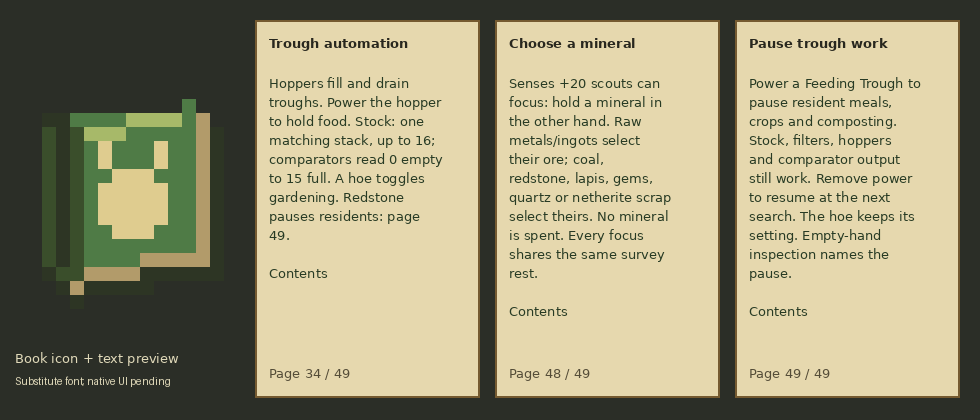
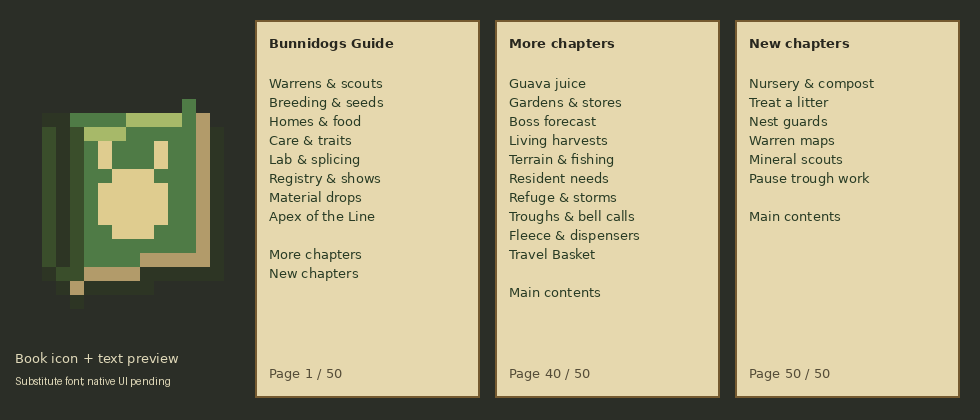
Add working-line milestones and a third Field Guide contents page

diff --git a/art/gen_guide.py b/art/gen_guide.py
@@ -53,11 +53,12 @@ PAGES = {
     48: ('Choose a mineral', 'Senses +20 scouts can focus: hold a mineral in the other hand. Raw metals/ingots select their ore; coal, redstone, lapis, gems, quartz or netherite scrap select theirs. No mineral is spent. Every focus shares the same survey rest.'),
     49: ('Pause trough work', 'Power a Feeding Trough to pause resident meals, crops and composting. Stock, filters, hoppers and comparator output still work. Remove power to resume at the next search. The hoe keeps its setting. Empty-hand inspection names the pause.'),
 }
-PAGE_COUNT = 49
-MAIN_INDEX = {2:'Warrens & scouts',4:'Breeding & seeds',41:'Nursery & compost',8:'Homes & food',11:'Care & traits',45:'Nest guards',15:'Lab & splicing',
+PAGE_COUNT = 50
+MAIN_INDEX = {2:'Warrens & scouts',4:'Breeding & seeds',8:'Homes & food',11:'Care & traits',15:'Lab & splicing',
               17:'Registry & shows',19:'Material drops',20:'Apex of the Line'}
 MORE_INDEX = {24:'Guava juice',25:'Gardens & stores',27:'Boss forecast',28:'Living harvests',29:'Terrain & fishing',
               31:'Resident needs',32:'Refuge & storms',34:'Troughs & bell calls',36:'Fleece & dispensers',39:'Travel Basket'}
+NEW_INDEX = {41:'Nursery & compost',44:'Treat a litter',45:'Nest guards',46:'Warren maps',47:'Mineral scouts',49:'Pause trough work'}
 
 
 def pantry_guide_pool():
@@ -86,8 +87,9 @@ def main():
     for path in (RES/'assets/bunnidogs/lang').glob('*.json'):
         value = json.loads(path.read_text()); value.update({'item.bunnidogs.field_guide':'Bunnidogs Field Guide',
           'guide.bunnidogs.title':'Bunnidogs Guide','guide.bunnidogs.contents':'Contents',
-          'guide.bunnidogs.more_contents':'More chapters','guide.bunnidogs.main_contents':'Main contents'})
-        for page,label in (MAIN_INDEX | MORE_INDEX).items(): value[f'guide.bunnidogs.index.{page}'] = label
+          'guide.bunnidogs.more_contents':'More chapters','guide.bunnidogs.main_contents':'Main contents',
+          'guide.bunnidogs.new_contents':'New chapters'})
+        for page,label in (MAIN_INDEX | MORE_INDEX | NEW_INDEX).items(): value[f'guide.bunnidogs.index.{page}'] = label
         for page,(title,body) in PAGES.items():
             value[f'guide.bunnidogs.page.{page}.title'] = title
             value[f'guide.bunnidogs.page.{page}.body'] = body
@@ -104,12 +106,13 @@ def main():
         bold = ImageFont.truetype('DejaVuSans-Bold.ttf',13)
     except OSError:
         font = bold = ImageFont.load_default()
-    for x,page in [(255,34),(495,48),(735,49)]:
+    for x,page in [(255,1),(495,40),(735,50)]:
         d.rectangle((x,20,x+224,397),fill=(230,216,174),outline=(117,90,48),width=2)
-        title = 'Bunnidogs Guide' if page == 1 else 'More chapters' if page == 40 else PAGES[page][0]
+        title = 'Bunnidogs Guide' if page == 1 else 'More chapters' if page == 40 else 'New chapters' if page == 50 else PAGES[page][0]
         d.text((x+14,35),title,font=bold,fill=(40,39,30))
-        if page == 1: body = '\n'.join(MAIN_INDEX.values()) + '\n\nMore chapters'
+        if page == 1: body = '\n'.join(MAIN_INDEX.values()) + '\n\nMore chapters\nNew chapters'
         elif page == 40: body = '\n'.join(MORE_INDEX.values()) + '\n\nMain contents'
+        elif page == 50: body = '\n'.join(NEW_INDEX.values()) + '\n\nMain contents'
         else: body = '\n'.join(textwrap.wrap(PAGES[page][1],25)) + '\n\nContents'
         d.multiline_text((x+14,75),body,font=font,spacing=6,fill=(40,59,36))
         d.text((x+14,365),f'Page {page} / {PAGE_COUNT}',font=font,fill=(85,77,56))

diff --git a/tools/gametest/java/com/bunnidogs/mod/entity/ScoutingGameTest.java b/tools/gametest/java/com/bunnidogs/mod/entity/ScoutingGameTest.java
@@ -13,6 +13,7 @@ import net.minecraft.core.GlobalPos;
 import net.minecraft.core.component.DataComponents;
 import net.minecraft.gametest.framework.GameTestHelper;
 import net.minecraft.network.chat.Component;
+import net.minecraft.resources.Identifier;
 import net.minecraft.util.ProblemReporter;
 import net.minecraft.world.InteractionHand;
 import net.minecraft.world.entity.EntitySpawnReason;
@@ -63,10 +64,17 @@ public final class ScoutingGameTest {
         dog.setTarget(other); dog.mobInteract(player,InteractionHand.OFF_HAND);
         h.assertTrue(dog.scoutingStatus() == Scouting.Status.COMBAT && dog.scoutingWait() == 0,"Combat must interrupt surveying");
         dog.setTarget(null); other.discard();
+        var listener = level.getServer().getAdvancements().get(Identifier.fromNamespaceAndPath("bunnidogs","quiet_listener"));
+        var discerning = level.getServer().getAdvancements().get(Identifier.fromNamespaceAndPath("bunnidogs","discerning_ear"));
+        h.assertTrue(listener != null && discerning != null && !player.getAdvancements().getOrStartProgress(listener).isDone(),
+                "Refused surveys must not grant an exploration milestone");
         // A player may keep a scout safely on a lead; measuring does not request a journey.
         dog.setLeashedTo(player,false);
         var originalStats = dog.stats(); float health = dog.getHealth();
         dog.mobInteract(player,InteractionHand.OFF_HAND);
+        h.assertTrue(player.getAdvancements().getOrStartProgress(listener).isDone()
+                && !player.getAdvancements().getOrStartProgress(discerning).isDone(),
+                "A successful general survey grants its native milestone without granting focused work");
         var expected = new LodestoneTracker(Optional.of(GlobalPos.of(level.dimension(),near)),false);
         int slot = -1;
         for (int i = 0; i < player.getInventory().getContainerSize(); i++)
@@ -122,12 +130,15 @@ public final class ScoutingGameTest {
         loaded.mobInteract(player,InteractionHand.OFF_HAND);
         h.assertTrue(loaded.scoutingWait() == 0 && expected.equals(marked.get(DataComponents.LODESTONE_TRACKER)),
                 "A requested focus at Senses +19 must refuse without spending the general survey");
+        h.assertTrue(!player.getAdvancements().getOrStartProgress(discerning).isDone(),"Refused focus must not grant advanced work");
         loaded.setStats(Stats.ZERO.with(Stat.SENSES,20));
         loaded.mobInteract(player,InteractionHand.OFF_HAND);
         var diamond = new LodestoneTracker(Optional.of(GlobalPos.of(level.dimension(),far)),false);
         h.assertTrue(diamond.equals(marked.get(DataComponents.LODESTONE_TRACKER)) && mineral.getCount() == 2
                 && mineral.getHoverName().getString().equals("Focus gem") && loaded.scoutingWait() == Scouting.RECOVERY_TICKS,
                 "A focused native survey must skip nearer coal, include deepslate ores and preserve its named mineral");
+        h.assertTrue(player.getAdvancements().getOrStartProgress(discerning).isDone(),
+                "A successful focused survey must grant the advanced native milestone");
         player.setItemInHand(InteractionHand.MAIN_HAND,new ItemStack(Items.RAW_IRON,2));
         loaded.mobInteract(player,InteractionHand.OFF_HAND);
         h.assertTrue(loaded.scoutingWait() == Scouting.RECOVERY_TICKS && diamond.equals(marked.get(DataComponents.LODESTONE_TRACKER)),

diff --git a/src/main/java/com/bunnidogs/mod/item/FieldGuideItem.java b/src/main/java/com/bunnidogs/mod/item/FieldGuideItem.java
@@ -5,24 +5,31 @@ import net.minecraft.ChatFormatting;
 import net.minecraft.core.component.DataComponents;
 import net.minecraft.network.chat.ClickEvent;
 import net.minecraft.network.chat.Component;
+import net.minecraft.network.chat.MutableComponent;
 import net.minecraft.server.network.Filterable;
 import net.minecraft.world.item.WrittenBookItem;
 import net.minecraft.world.item.component.WrittenBookContent;
 
 /** Native book UI/packets, translated pages and local page links; no custom screen or payload. */
 public final class FieldGuideItem extends WrittenBookItem {
-    public static final int PAGE_COUNT = 49;
+    public static final int PAGE_COUNT = 50;
     private static final int MORE_CONTENTS = 40;
+    private static final int NEW_CONTENTS = 50;
     public FieldGuideItem(Properties properties) {
         super(properties.component(DataComponents.WRITTEN_BOOK_CONTENT, content()));
     }
     private static WrittenBookContent content() {
         var pages = new ArrayList<Filterable<Component>>(PAGE_COUNT);
-        pages.add(Filterable.passThrough(contents("guide.bunnidogs.title",new int[]{2,4,41,8,11,45,15,17,19,20},
-                "guide.bunnidogs.more_contents",MORE_CONTENTS)));
+        pages.add(Filterable.passThrough(contents("guide.bunnidogs.title",new int[]{2,4,8,11,15,17,19,20},
+                "guide.bunnidogs.more_contents",MORE_CONTENTS).append("\n").append(link("guide.bunnidogs.new_contents",NEW_CONTENTS))));
         for (int page = 2; page <= PAGE_COUNT; page++) {
             if (page == MORE_CONTENTS) {
                 pages.add(Filterable.passThrough(contents("guide.bunnidogs.more_contents",new int[]{24,25,27,28,29,31,32,34,36,39},
+                        "guide.bunnidogs.main_contents",1)));
+                continue;
+            }
+            if (page == NEW_CONTENTS) {
+                pages.add(Filterable.passThrough(contents("guide.bunnidogs.new_contents",new int[]{41,44,45,46,47,49},
                         "guide.bunnidogs.main_contents",1)));
                 continue;
             }
@@ -30,12 +37,12 @@ public final class FieldGuideItem extends WrittenBookItem {
                     .append(Component.literal("\n\n").withStyle(style -> style.withBold(false)))
                     .append(Component.translatable("guide.bunnidogs.page." + page + ".body").withStyle(style -> style.withBold(false)))
                     .append(Component.literal("\n\n").withStyle(style -> style.withBold(false)))
-                    .append(link("guide.bunnidogs.contents",page < 24 || page > MORE_CONTENTS ? 1 : MORE_CONTENTS));
+                    .append(link("guide.bunnidogs.contents",page > MORE_CONTENTS ? NEW_CONTENTS : page < 24 ? 1 : MORE_CONTENTS));
             pages.add(Filterable.passThrough(text));
         }
         return new WrittenBookContent(Filterable.passThrough("Bunnidogs Guide"), "Warren Keepers", 0, pages, true);
     }
-    private static Component contents(String title, int[] chapters, String footer, int destination) {
+    private static MutableComponent contents(String title, int[] chapters, String footer, int destination) {
         var contents = Component.translatable(title).withStyle(ChatFormatting.BOLD)
                 .append(Component.literal("\n\n").withStyle(ChatFormatting.RESET));
         for (int page : chapters) contents.append(link("guide.bunnidogs.index."+page,page)).append("\n");

diff --git a/tools/gametest/java/com/bunnidogs/mod/entity/GuardGameTest.java b/tools/gametest/java/com/bunnidogs/mod/entity/GuardGameTest.java
@@ -10,6 +10,7 @@ import net.minecraft.core.BlockPos;
 import net.minecraft.core.component.DataComponents;
 import net.minecraft.gametest.framework.GameTestHelper;
 import net.minecraft.network.chat.Component;
+import net.minecraft.resources.Identifier;
 import net.minecraft.util.ProblemReporter;
 import net.minecraft.world.InteractionHand;
 import net.minecraft.world.entity.EntitySpawnReason;
@@ -51,10 +52,15 @@ public final class GuardGameTest {
             player.gameMode.changeGameModeForPlayer(GameType.ADVENTURE);
             dog.mobInteract(player,InteractionHand.OFF_HAND);
             h.assertTrue(!dog.guardEnabled(),"Adventure permissions must prevent changing guarding");
+            var milestone = level.getServer().getAdvancements().get(Identifier.fromNamespaceAndPath("bunnidogs","standing_watch"));
+            h.assertTrue(milestone != null && !player.getAdvancements().getOrStartProgress(milestone).isDone(),
+                    "Refused guard commands must not grant the working-line milestone");
             player.gameMode.changeGameModeForPlayer(GameType.SURVIVAL);
             dog.mobInteract(player,InteractionHand.OFF_HAND);
             h.assertTrue(dog.guardEnabled() && dog.guardingStatus() == Guarding.Status.READY && bone.getCount() == 3
                     && bone.getHoverName().getString().equals("Guard command"),"Off-hand commands must enable without spending or rewriting a bone");
+            h.assertTrue(player.getAdvancements().getOrStartProgress(milestone).isDone(),
+                    "A real successful guard command must award the native per-player milestone");
             var cow = h.spawnWithNoFreeWill(EntityTypes.COW,3,1,4);
             var creeper = h.spawnWithNoFreeWill(EntityTypes.CREEPER,4,1,3);
             h.assertTrue(!new GuardGoal(dog).canUse() && dog.getTarget() == null,

diff --git a/src/main/java/com/bunnidogs/mod/entity/WorkingLineProgress.java b/src/main/java/com/bunnidogs/mod/entity/WorkingLineProgress.java
@@ -1,0 +1,22 @@
+package com.bunnidogs.mod.entity;
+
+import com.bunnidogs.mod.BunnidogsMod;
+import net.minecraft.resources.Identifier;
+import net.minecraft.server.level.ServerPlayer;
+import net.minecraft.world.entity.player.Player;
+
+/** Native per-player milestones, awarded only after the corresponding animal interaction succeeds. */
+final class WorkingLineProgress {
+    private WorkingLineProgress() {}
+    static void guard(Player player) { award(player,"standing_watch","enabled"); }
+    static void survey(Player player, boolean focused) {
+        award(player,"quiet_listener","surveyed");
+        if (focused) award(player,"discerning_ear","focused");
+    }
+    private static void award(Player player, String path, String criterion) {
+        if (player instanceof ServerPlayer server) {
+            var advancement = server.level().getServer().getAdvancements().get(Identifier.fromNamespaceAndPath(BunnidogsMod.MODID,path));
+            if (advancement != null) server.getAdvancements().award(advancement,criterion);
+        }
+    }
+}

diff --git a/src/main/java/com/bunnidogs/mod/entity/Bunnidog.java b/src/main/java/com/bunnidogs/mod/entity/Bunnidog.java
@@ -516,7 +516,7 @@ public class Bunnidog extends Animal implements net.neoforged.neoforge.common.IS
                 if (!this.acceptsCare() || !this.isAlive()) message = "unavailable";
                 else if (this.guardEnabled) { this.guardEnabled = false; message = "disabled"; }
                 else if (this.isBaby() || this.temperament() != Temperament.FERAL || this.homeNest() == null) message = "requirement";
-                else { this.guardEnabled = true; message = "enabled"; }
+                else { this.guardEnabled = true; message = "enabled"; WorkingLineProgress.guard(player); }
                 player.sendOverlayMessage(Component.translatable("message.bunnidogs.guard."+message));
             }
             return InteractionResult.SUCCESS;

diff --git a/src/main/java/com/bunnidogs/mod/entity/MineralScouting.java b/src/main/java/com/bunnidogs/mod/entity/MineralScouting.java
@@ -94,6 +94,7 @@ public final class MineralScouting {
             PlaceMarkers.bind(level,pos,player,hand);
             player.sendSystemMessage(Component.translatable("message.bunnidogs.scouting.marked",level.getBlockState(pos).getBlock().getName(),
                     pos.getX(),pos.getY(),pos.getZ()));
+            WorkingLineProgress.survey(player,focus != Focus.ANY);
         }
         dog.playSound(SoundEvents.AMETHYST_BLOCK_CHIME,.5F,1.2F);
         return InteractionResult.SUCCESS;

diff --git a/START_HERE.md b/START_HERE.md
@@ -22,6 +22,13 @@ checkpoints/compaction and reserve only the capacity needed to deliver safely.
 
 ## Latest gameplay work — 2026-10-18
 
+- **P4/E4, navigation and working-line goals:** the 50-page guide has three
+  linked contents pages/twenty-four chapter links, including direct nursery,
+  guard, map, scout and trough-pause entries. Native one-time XP milestones
+  reward a successful guard command, found-ore survey and focused survey.
+  Refusals grant none. Build/all 40 native cases pass; three-index preview
+  inspected. See `docs/FIELD_GUIDE.md` P4 and `docs/EXPLORATION_SPECS.md` E4.
+
 - **L17, trough redstone pause:** power reserves a trough from resident
   meals and crop/compost work; manual/automation stock, exact filters and
   comparator output remain available. Jobs recheck before commitment and
@@ -149,8 +156,8 @@ storm shelter, fishing, terrain traits, local supplies, living dust and fitted
 farms are also complete. Their rules/evidence remain in the specifications
 listed below; do not redo them.
 
-The native Field Guide has 49 translated pages and twenty chapter links across
-two linked contents pages.
+The native Field Guide has 50 translated pages and twenty-four chapter links
+across three linked contents pages.
 `art/gen_guide.py` owns text/icon/preview; `art/gen_pantries.py` owns eight
 lineage food tables and shares the guide pool. See `docs/FIELD_GUIDE.md`.
 
@@ -169,7 +176,7 @@ lineage food tables and shares the guide pool. See `docs/FIELD_GUIDE.md`.
 | Homes/travel | Claimable Nests, day tether/night return, floor Nests, native leads/rides, led-adult reassignment, Travel Baskets and persistent compass place markers. `docs/HOME_SPECS.md` H1–H7 |
 | Settlement life | Saved trough stock/automation/filters/redstone pause, diet healing/short night meals, bell visits, fitted furniture, harvest/cultivation/surplus composting, guava compost data, local stores, refuge, storm shelter and opt-in feral Nest guards. `docs/SETTLEMENT_LIFE.md` L1–L17 |
 | Warrens | Fitted dens/mouths/tunnels/cellars, landmark rooms, grand-tree hall/loop/lower commons, cave/Nether/End entrances and saved labels. `docs/WARREN_PLAN.md` U1–U8 |
-| Exploration | Native cartographer Warren Maps and bred bat-ear compass surveys, with optional mineral-family focus at Senses +20. `docs/EXPLORATION_SPECS.md` E1–E3 |
+| Exploration | Native cartographer Warren Maps, bred bat-ear compass surveys with optional mineral-family focus at Senses +20, and native working-line milestones. `docs/EXPLORATION_SPECS.md` E1–E4 |
 | Wood and travel | Guava building/redstone set, doors/shutters/lamps, four sign forms, native boats/chest boats with custom assets and drops. `docs/FIXES_PLAN.md` 4–5 |
 | Drops and endgame | Pelts/materials, Mutagen/Marrow/Tissue/Dust, five stat legends and pedestals. Sample-defined Apex ritual, inherited combat, warned attacks/enrage, boss bar and source-line crest. `docs/DROPS_SPECS.md`, `docs/APEX_SPECS.md` |
 | Apex preparation | Crucible missing-offering status; main-hand Calipers/off-hand sample forecasts real boss values without spending or spawning. `docs/APEX_SPECS.md` P2 |

diff --git a/docs/FIELD_GUIDE.md b/docs/FIELD_GUIDE.md
@@ -56,8 +56,8 @@ containers are not refilled and player inventories are not edited. See
 
 ## Presentation and saves
 
-Forty-nine pages use the ordinary written-book screen. The two linked contents pages
-offer twenty clickable chapter links. Each chapter links back to its index. Local page changes
+Fifty pages use the ordinary written-book screen. Three linked contents pages
+offer twenty-four clickable chapter links. Each chapter links back to its index. Local page changes
 are the only click action. All text is translatable through en_us.json. The
 book stacks to one and appears beside the Calipers in Tools & Utilities.
 
@@ -75,8 +75,8 @@ resource-pack fonts may differ. The source preview uses a substitute font.
 ## Evidence
 
 The actual Java 25 build and current forty native server cases pass,
-including loading the book/recipe/loot resources. The expanded 49-page
-automation/focus/pause preview is inspected with a substitute font. Earlier
+including loading the book/recipe/loot resources. The expanded 50-page
+three-index preview is inspected with a substitute font. Earlier
 pages were shortened using the conservative native text-area estimate.
 Native WrittenBookItem, ServerPlayer, ClientPacketListener and BookViewScreen
 sources establish the ordinary book/packet/click behavior; no new screen or
@@ -111,3 +111,20 @@ L16 appends guard page 45 and a tenth main-index chapter. Both contents pages
 now have ten chapters; earlier page numbers and native links remain stable.
 E1 appends map page 46 under the warren/exploration chapter, returning to page 1.
 E2 appends scout page 47 under the same chapter, also returning to page 1.
+
+## P4 — Nursery, resident work and exploration index
+
+Page 50 is a third contents page for the newer systems: Nursery & compost,
+in-place litter treatment, Nest guards, Warren Maps, Mineral scouts and
+the trough work pause. Main contents returns to its eight core chapters and
+links to both **More chapters** and **New chapters**. Page 40 retains its ten
+established links and return to Main contents. The new page has six chapters
+and its own Main return, for twenty-four direct chapter links in total.
+
+Content pages 41–49 now return to page 50; pages 2–23 still return to Main and
+24–39 to More. Earlier content page numbers remain stable, including the
+warren/map/scout references and automation/pause reference. Native local
+`ClickEvent.ChangePage` links, written-book defaults and intentionally overridden
+book components retain their existing behavior. There is no screen, packet or
+save migration. The generated three-index preview is inspected; native font
+and navigation remain client gameplay review.

diff --git a/docs/EXPLORATION_SPECS.md b/docs/EXPLORATION_SPECS.md
@@ -112,3 +112,30 @@ intact; switching to raw iron retains recovery, and a rested iron search with
 no match never falls back to coal/diamond or changes the older place marker.
 The updated scout/focus guide preview is inspected. Natural focused mining
 and client reading remain gameplay review.
+
+## E4: working-line milestones
+
+Three native per-player advancements give the new resident/exploration roles
+visible goals alongside the existing stable-line/show progression:
+
+| Advancement | Actual successful trigger | Reward |
+|---|---|---|
+| Standing Watch | Enable a feral adult's Nest guarding | 25 XP |
+| A Quiet Listener | Mark found ore through a qualified compass survey | 25 XP |
+| A Discerning Ear | Mark the selected ore family through a focused survey | 50 XP |
+
+The guard and general-scout tasks join Husbandry; focused scouting follows the
+general-scout task. First making a focused survey can satisfy both. Refused
+commands, empty surveys and inspection grant nothing. Use native saved player
+progress and reward limits, with no extra animal/player fields, items or custom
+criteria/network payload. Repeating commands or successful surveys cannot farm
+the one-time rewards. Data packs can override/remove the advancements normally;
+missing advancement definitions do not break the animal interactions.
+
+E4 evidence (2026-10-18): actual Java 25 build/all 40 native cases pass. The
+existing guard/scout interactions read actual native advancement progress:
+invalid commands/surveys remain incomplete, a successful guard command and
+general found-ore survey complete their tasks, and focused work stays locked
+until an actual Senses +20 matching survey succeeds. Native JSON resources
+load with their parent links/rewards. Toasts and the advancement screen remain
+client gameplay review.

diff --git a/README.md b/README.md
@@ -4,7 +4,7 @@ A NeoForge mod for Minecraft 26.2: a baby-faced creature with rabbit ears and a
 dog's body, plus breeding, genetics, guavas, warrens, homes and pedigree tools.
 Requires JDK 25. The checked-in Gradle wrapper selects the project Gradle version.
 
-Craft a vanilla book with any guava for the **49-page Field Guide**, with two
+Craft a vanilla book with any guava for the **50-page Field Guide**, with three
 linked contents pages covering its chapters. Sneak-use
 Calipers for care/work readiness, use a hoe on a Feeding Trough to enable
 resident gardening, and explore food stores for supplies suited to each lineage.
@@ -46,6 +46,7 @@ Sneak-use a compass on a healthy bat-eared adult with Senses +10 for a nearby
 ore marker. Surveys use loaded terrain and rest thirty seconds, even if empty.
 At Senses +20, a mineral in the other hand selects its ore family without being spent.
 Power a trough to pause resident meals/gardening while preserving stock automation.
+Native working-line advancements reward successful guard commands and mineral surveys.
 
 ## Build and play
 

diff --git a/docs/ROADMAP.md b/docs/ROADMAP.md
@@ -16,6 +16,12 @@ and mouths, **H3b** house floor Nests. V1a, V1b, H3 and H4 WORK.
 
 ## Latest implemented work (gameplay pending)
 
+P4 expands the 50-page guide to three contents pages/twenty-four chapter links,
+with direct access to newer systems. E4 adds native one-time working-line XP
+milestones for a successful guard command/general or focused found-ore survey.
+Build/all 40 native cases pass; the three-index preview is inspected. See
+`FIELD_GUIDE.md` and `EXPLORATION_SPECS.md`.
+
 L17 adds a native redstone pause for resident meals/crop/compost work from a
 trough, retaining its stock/filter/automation/comparator and hoe setting.
 Commit checks include changes during native protection callbacks. Build/all
